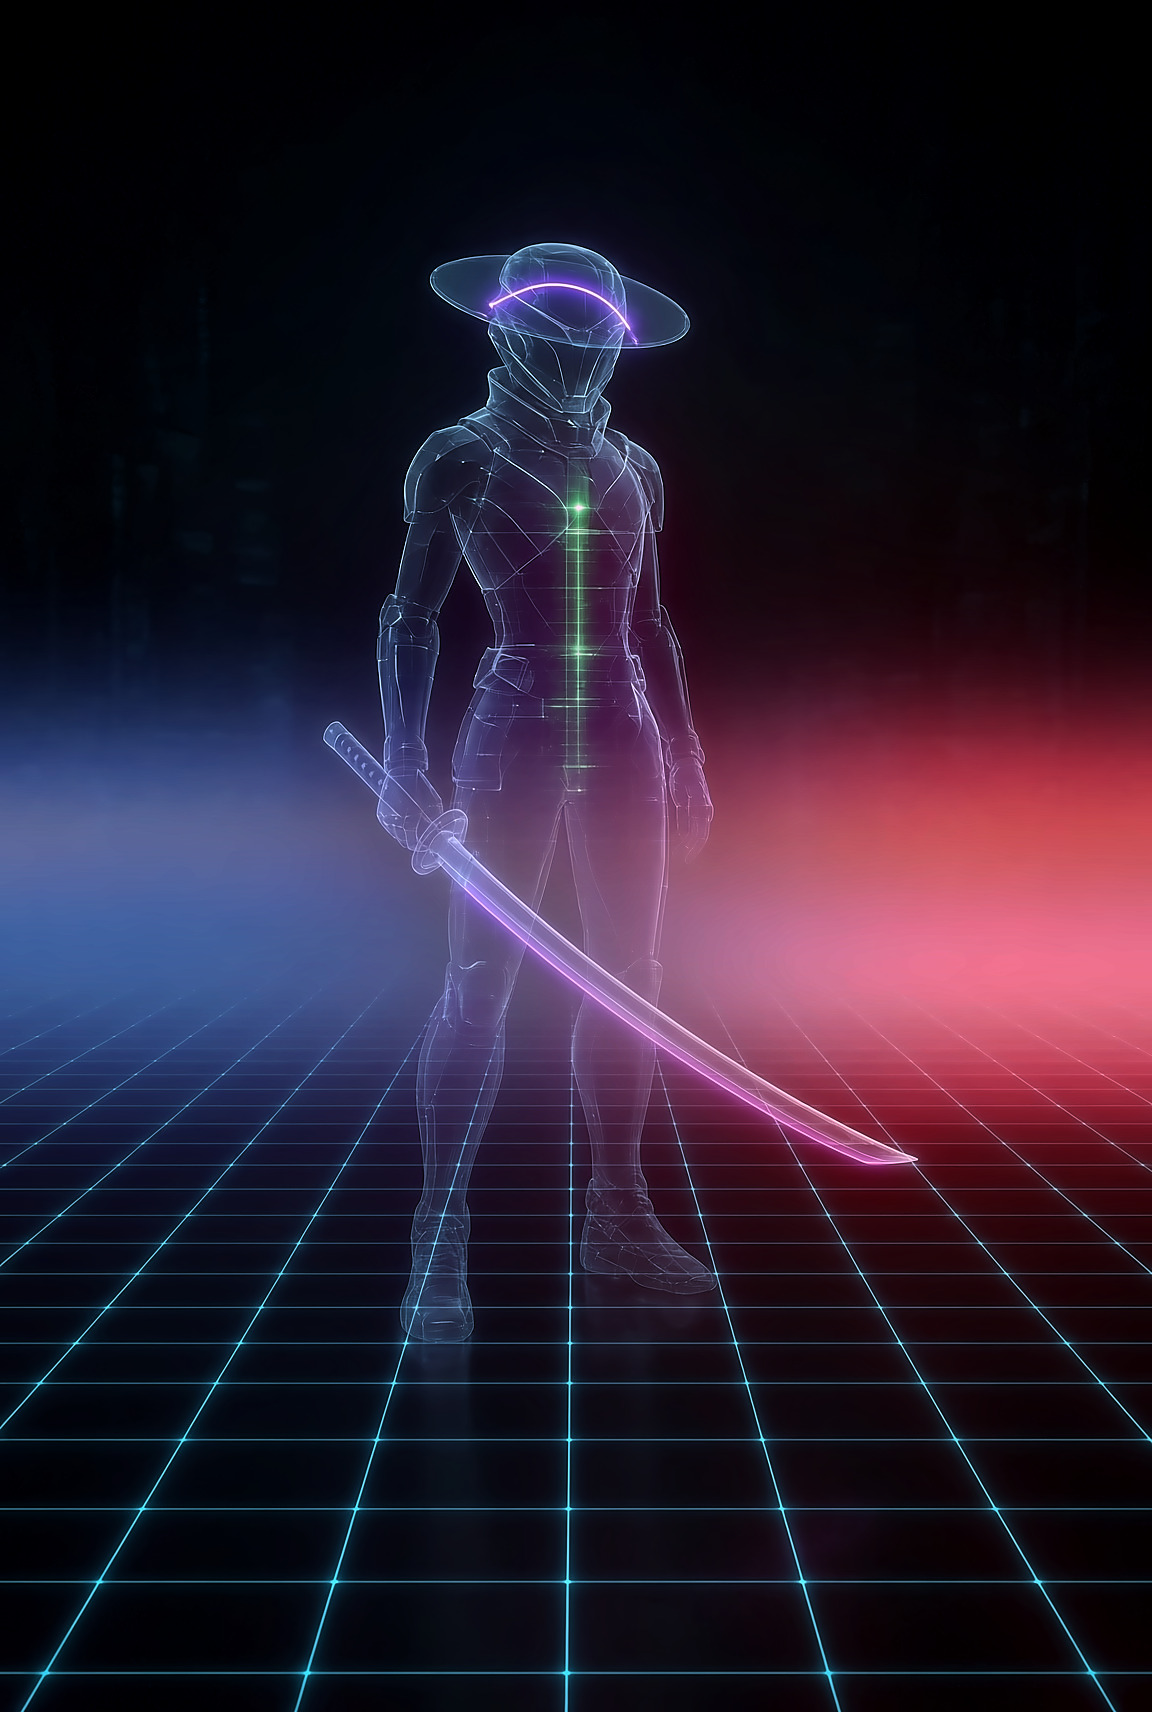
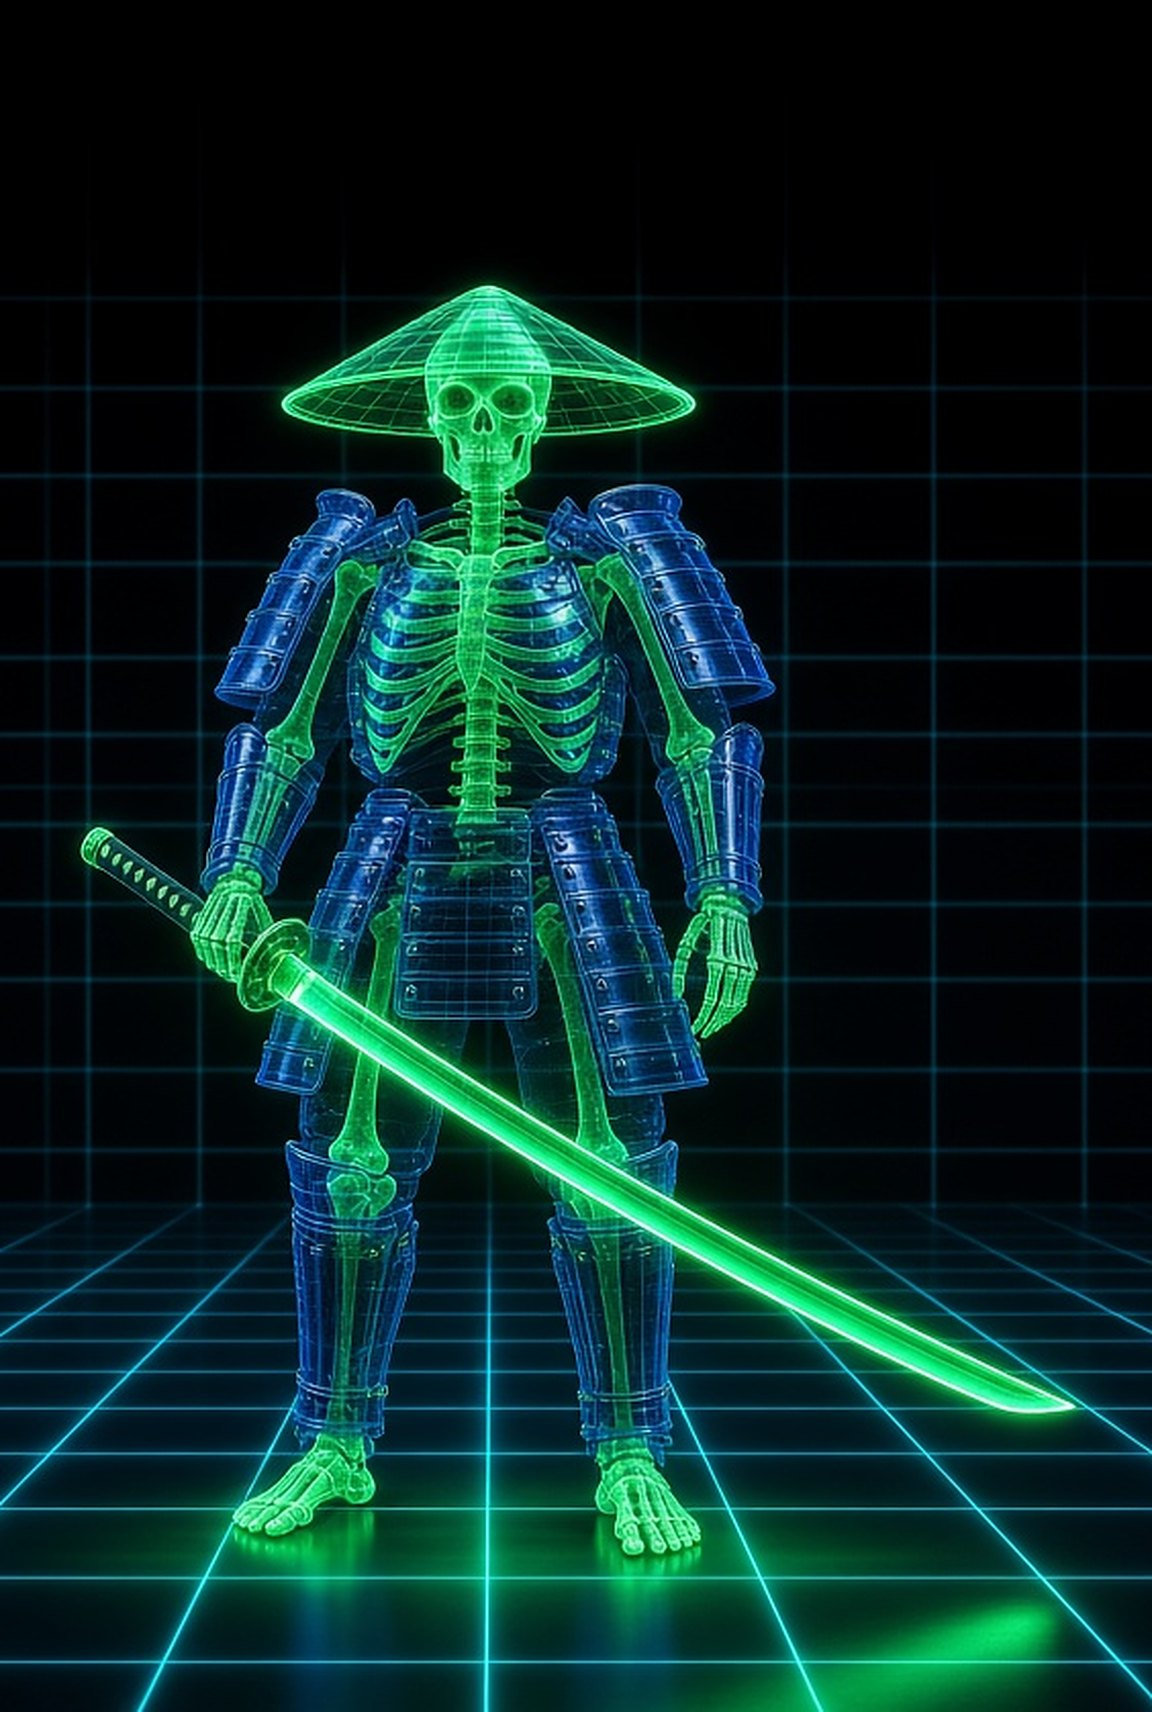
New home picture: green hologram skeleton in blue armor

diff --git a/index.html b/index.html
@@ -36,7 +36,7 @@
     <span class="plate-mark plate-se" aria-hidden="true"></span>
     <div class="stage stage-still">
       <div class="draft-plate">
-        <img src="./images/home-arbiter-plate.jpg" width="1152" height="1712" fetchpriority="high" alt="A see-through hologram figure in a wide-brimmed hat with a violet visor line, holding a katana with a violet edge, standing on a cyan grid, lit blue from the left and red from the right.">
+        <img src="./images/home-arbiter-plate.jpg" width="1152" height="1712" fetchpriority="high" alt="A see-through green hologram skeleton in see-through blue samurai armor and a conical hat, holding a glowing green katana, standing in a cyan grid room; the sword lights the floor green.">
       </div>
       <p class="figure-caption">The weight sits.</p>
     </div>

diff --git a/styles.css b/styles.css
@@ -69,7 +69,7 @@ a { color: inherit; text-decoration: none; }
 .stage img, .stage video { width: 100%; height: auto; display: block; object-fit: contain; object-position: center center; background: #050506; }
 .stage-still { position: relative; min-height: 0; }
 .stage-still > img:first-child { width: 100%; max-height: none; object-fit: contain; object-position: center center; }
-/* The blue-left / red-right light lives in the picture itself (images/home-arbiter-plate.jpg); no colour layer is drawn over it. */
+/* All light (including the green sword glow on the floor) lives in the picture itself (images/home-arbiter-plate.jpg); no colour layer is drawn over it. */
 .room-hero {
   display: grid;
   grid-template-columns: minmax(0, 1.35fr) minmax(260px, .75fr);
